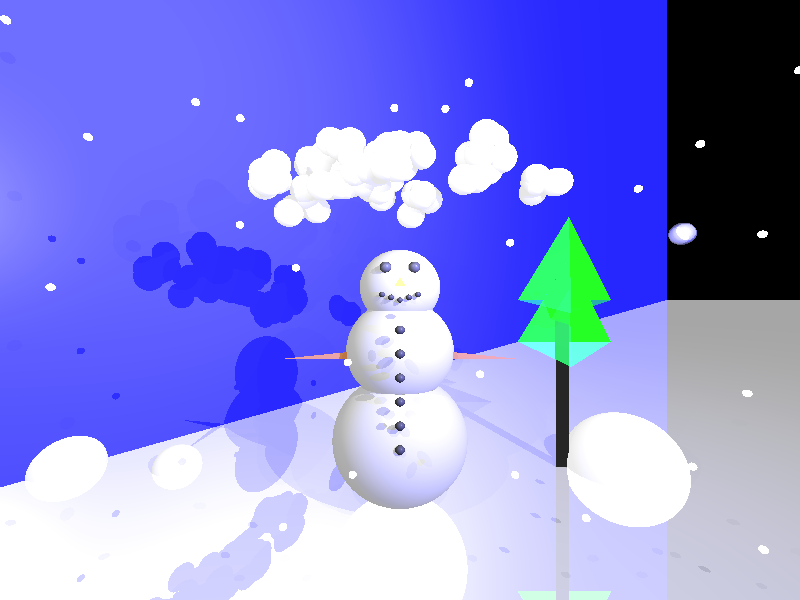
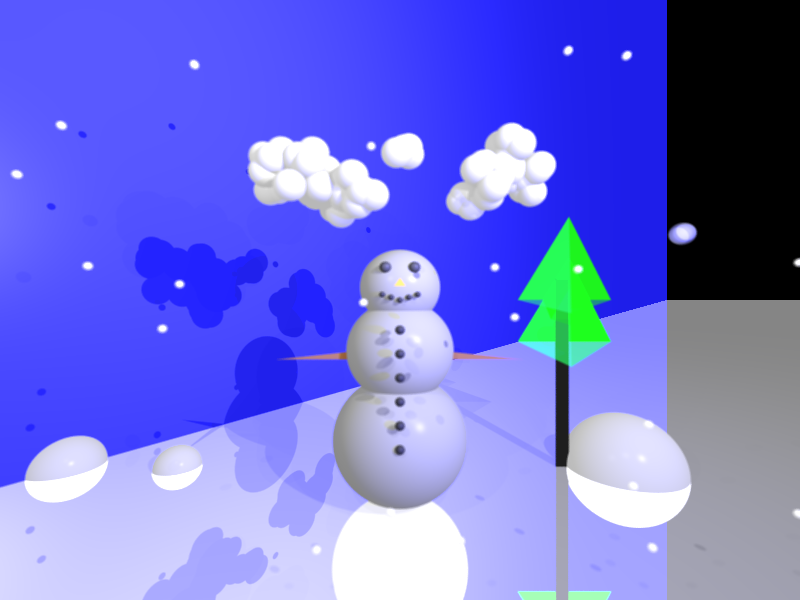
הוספנו לscene פונקציה שמקבלת רשימה של Intersectable וממינת אות הAABB לפי ציר Z ומחזירה רשימה ממויינת אח"כ בטסט minip1_v1 אחרי שכל הAABB של כל הצורות הגיאומטריות נכנסו לרשימה קראנו לפונקציה הממיינת של הרשימה  ואחכ מפעילים את הפניה של הסטנה על הרשימה הממויינת במקום על רשימה לא ממויינת

diff --git a/src/scene/Scene.java b/src/scene/Scene.java
@@ -1,10 +1,14 @@
 package scene;
 
+import geometries.AABB;
 import geometries.Geometries;
+import geometries.Intersectable;
 import lighting.AmbientLight;
 import lighting.LightSource;
 import primitives.Color;
 
+import java.util.Collections;
+import java.util.Comparator;
 import java.util.LinkedList;
 import java.util.List;
 
@@ -79,5 +83,29 @@ public class Scene {
      */
     public List<LightSource> getLights() {
         return lights;
+    }
+
+    /**
+     * פונקציה למיון רשימה של Intersectable לפי מרכז ה-Z של ה-Bounding Box שלהם.
+     *
+     * @param objects רשימה של אובייקטים מהסוג Intersectable
+     * @return רשימה ממוינת של Intersectable לפי ציר Z
+     */
+    public List<Intersectable> sortBoundingBoxesByZ(List<Intersectable> objects) {
+        Collections.sort(objects, new Comparator<Intersectable>() {
+            @Override
+            public int compare(Intersectable obj1, Intersectable obj2) {
+                // מקבלים את ה-Bounding Box של כל אובייקט
+                AABB box1 = obj1.getBoundingBox();
+                AABB box2 = obj2.getBoundingBox();
+
+                // חישוב מרכז ה-Z של ה-Bounding Box
+                double zCenter1 = (box1.getMin().getZ() + box1.getMax().getZ()) / 2;
+                double zCenter2 = (box2.getMin().getZ() + box2.getMax().getZ()) / 2;
+
+                return Double.compare(zCenter1, zCenter2);
+            }
+        });
+        return objects;
     }
 }

diff --git a/unitTasts/renderer/minip1_v1.java b/unitTasts/renderer/minip1_v1.java
@@ -394,8 +394,10 @@ public class minip1_v1 {
         setupScene();
         List<Intersectable> geometries = createGeometries();
 
+        List<Intersectable> sortedGeometries = scene.sortBoundingBoxesByZ(geometries);
+
         // Render with BVH
-        scene.geometries.add(new BVHNode(geometries));
+        scene.geometries.add(new BVHNode(sortedGeometries));
         renderImage("minip1_v1 without AA");
     }
 
@@ -406,7 +408,7 @@ public class minip1_v1 {
                 .setImageWriter(new ImageWriter(imageName, 800, 600))
                 .build()
                 .setMultiThreading(true)
-                .renderImage()
+                .renderImageWithAntiAliasing(80)
                 .writeToImage();
     }
 }

diff --git a/unitTasts/renderer/sss.java b/unitTasts/renderer/sss.java
@@ -71,7 +71,7 @@ public class sss {
                 .setVpDistance(100)
                 .setImageWriter(new ImageWriter("sss_without_bvh", 800, 600))
                 .build()
-                .setMultiThreading(false)
+                .setMultiThreading(true)
                 .renderImageWithAntiAliasing(30)
                 .writeToImage();
 
@@ -119,7 +119,7 @@ public class sss {
                 .setVpDistance(100)
                 .setImageWriter(new ImageWriter("sss_with_bvh", 800, 600))
                 .build()
-                .setMultiThreading(false)
+                .setMultiThreading(true)
                 .renderImageWithAntiAliasing(30)
                 .writeToImage();
 
